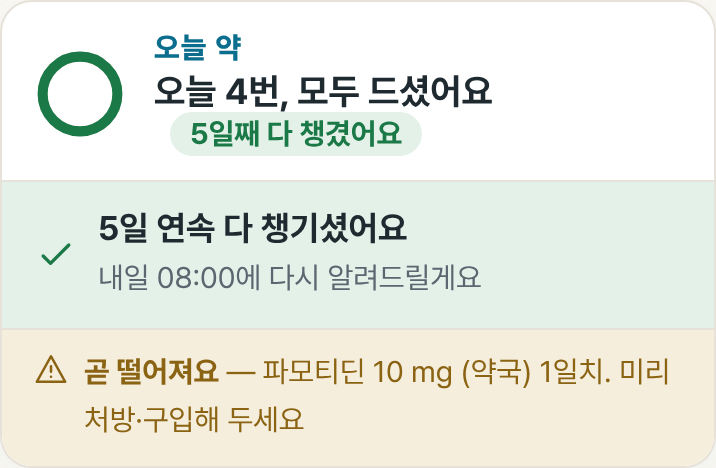
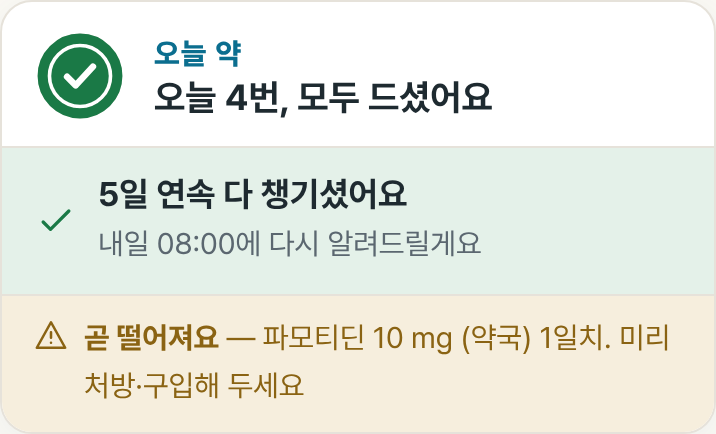
약지도: 연속 기록은 한 곳만(아래 줄), 다 드신 날 고리는 꽉 찬 체크
Claude-Session: https://claude.ai/code/session_01EnA5kC7cG7NGAyuaz7gY2Z

diff --git a/docs/yakjido/index.html b/docs/yakjido/index.html
@@ -290,7 +290,6 @@ p{color:var(--body)}
 .brand .mark img{width:34px;height:34px;display:block;border-radius:9px}
 .brand b{font-size:1.125rem;font-weight:800;letter-spacing:-.02em}
 .brand span{display:block;font-size:.875rem;color:var(--muted);line-height:1.2}
-.dh-stk{display:inline-block;margin-left:8px;padding:2px 10px;border-radius:99px;background:var(--normal-tint);color:var(--normal);font-size:.875rem;font-weight:700}
 .acct-btn{flex:none;display:inline-flex;align-items:center;gap:6px;min-height:44px;padding:0 14px;margin-left:10px;border:1px solid var(--hairline);border-radius:99px;background:var(--card);color:var(--primary-deep);font:700 .9375rem inherit}
 @media (max-width:480px){.top .rs-d{display:none}}@media (max-width:400px){.acct-btn .ab-t{display:none}.acct-btn{width:44px;padding:0;justify-content:center}}.top .brand{min-width:0}
 .acct-btn.on{width:44px;padding:0;justify-content:center;background:var(--primary);color:var(--on-primary)}
@@ -1767,7 +1766,7 @@ background-repeat:no-repeat;background-position:right 9px center;background-size
 <script>
 window.__YAKJIDO_OK__ = true;
 const D = JSON.parse(document.getElementById('data').textContent || '{}');
-const BUILD = '2026-10-30 09:01';
+const BUILD = '2026-10-30 09:16';
 const DATAV = 'b3df5293ae'.indexOf('__') === 0 ? BUILD : 'b3df5293ae';
 const BRANDMARK = (typeof window !== 'undefined' && window.__BRANDMARK__) || 'icon-192.png';
 let CORE = 0, CORE_P = null;
@@ -2007,12 +2006,12 @@ const next = left.find(r => r.min > nowMin + 30);
 const low = lowStock();
 const say = !left.length && done < rows.length ? `오늘 ${rows.length}번 중 ${done}번 드시고 ${rows.length - done}번 건너뛰셨어요` : !done ? `오늘 ${rows.length}번 드실 차례예요` : !left.length ? `오늘 ${rows.length}번, 모두 드셨어요` : `${rows.length}번 중 ${done}번 드셨어요`;
 const stk = streakDays();
-const head = `<div class="dh-h"><span class="eb">오늘 약</span> <b>${say}</b>${stk >= 2 && left.length ? `<span class="dh-stk">${stk}일째 이어지는 중</span>` : ''}</div>`;
+const head = `<div class="dh-h"><span class="eb">오늘 약</span> <b>${say}</b></div>`;
 let body;
 if (!left.length) body = `<div class="dh-b ok">${I.check}<span><b>${stk >= 2 ? `${stk}일 연속 다 챙기셨어요` : '잘 챙기셨어요'}</b><small>내일 ${rows[0].t}에 다시 알려드릴게요</small></span></div>`;
-else if (due) body = `<div class="dh-b due">${pillGlyph(due.d, 26)}<span><b>${esc(due.d.name)}</b><small>${due.t} — ${due.min <= nowMin ? '드실 시간이 지났어요' : '곧 드실 시간이에요'}</small></span>
+else if (due) body = `<div class="dh-b due">${pillGlyph(due.d, 26)}<span><b>${esc(due.d.name)}</b><small>${due.t} — ${due.min <= nowMin ? '드실 시간이 지났어요' : '곧 드실 시간이에요'}${stk >= 2 ? ` · ${stk}일째 이어지는 중` : ''}</small></span>
 <button class="dh-tick" onclick="event.stopPropagation();tick('${due.d.id}','${due.t}')">드셨어요</button></div>`;
-else body = `<div class="dh-b">${pillGlyph(next.d, 26)}<span><b>다음은 ${next.t} · ${esc(next.d.name)}</b><small>오늘 ${left.length}번 남았어요</small></span></div>`;
+else body = `<div class="dh-b">${pillGlyph(next.d, 26)}<span><b>다음은 ${next.t} · ${esc(next.d.name)}</b><small>오늘 ${left.length}번 남았어요${stk >= 2 ? ` · ${stk}일째 이어지는 중` : ''}</small></span></div>`;
 return `<section class="sec" aria-label="오늘 약">
 <div class="dh" role="group">
 <button class="dh-go" onclick="go('/schedule')" aria-label="오늘 약 ${esc(String(say).replace(/<[^>]+>/g, ''))} — 복용 시간 알림 열기">${doseRing(done, rows.length, 46)}${head}</button>
@@ -4678,7 +4677,7 @@ const body = f === 'cap' ? `<rect x="5" y="11" width="22" height="10" rx="5" fil
 : `<circle cx="16" cy="16" r="10" fill="${c}"/><path d="M8.5 16h15" stroke="#fff" stroke-width="1.6" opacity=".6"/>`;
 return `<svg class="pill-g" viewBox="0 0 32 32" width="${size}" height="${size}" aria-hidden="true">${body}</svg>`; }
 function doseRing(done, total, size = 64){ const r = 26, C = 2 * Math.PI * r, f = total ? done / total : 0;
-return `<svg class="ring" viewBox="0 0 64 64" width="${size}" height="${size}" aria-hidden="true"><circle cx="32" cy="32" r="${r}" fill="none" stroke="var(--hairline)" stroke-width="7"/><circle cx="32" cy="32" r="${r}" fill="none" stroke="${f >= 1 ? 'var(--normal)' : 'var(--primary)'}" stroke-width="7" stroke-linecap="round" stroke-dasharray="${(C * f).toFixed(1)} ${C.toFixed(1)}" transform="rotate(-90 32 32)"/></svg>`; }
+return `<svg class="ring" viewBox="0 0 64 64" width="${size}" height="${size}" aria-hidden="true"><circle cx="32" cy="32" r="${r}" fill="none" stroke="var(--hairline)" stroke-width="7"/><circle cx="32" cy="32" r="${r}" fill="none" stroke="${f >= 1 ? 'var(--normal)' : 'var(--primary)'}" stroke-width="7" stroke-linecap="round" stroke-dasharray="${(C * f).toFixed(1)} ${C.toFixed(1)}" transform="rotate(-90 32 32)"/>${f >= 1 ? '<circle cx="32" cy="32" r="20" fill="var(--normal)"/><path d="M23 32.5l6 6 12-13" fill="none" stroke="#fff" stroke-width="4.5" stroke-linecap="round" stroke-linejoin="round"/>' : ''}</svg>`; }
 const DAYPART = [['아침', 0, 660], ['점심', 660, 900], ['저녁', 900, 1200], ['자기 전', 1200, 1440]];
 function daypartGroups(todays){ return DAYPART.map(([n, a, b]) => [n, todays.filter(x => x.min >= a && x.min < b)]).filter(([, l]) => l.length); }
 function todayHero(todays, nowMin, link){ const done = todays.filter(x => x.done).length, all = todays.length, nx = todays.find(x => !x.done && !x.skip && x.min >= nowMin - 60) || todays.find(x => !x.done && !x.skip);

diff --git a/yakjido/app-shell.html b/yakjido/app-shell.html
@@ -323,7 +323,6 @@ p{color:var(--body)}
 .brand .mark img{width:34px;height:34px;display:block;border-radius:9px}
 .brand b{font-size:1.125rem;font-weight:800;letter-spacing:-.02em}
 .brand span{display:block;font-size:.875rem;color:var(--muted);line-height:1.2}
-.dh-stk{display:inline-block;margin-left:8px;padding:2px 10px;border-radius:99px;background:var(--normal-tint);color:var(--normal);font-size:.875rem;font-weight:700}
 .acct-btn{flex:none;display:inline-flex;align-items:center;gap:6px;min-height:44px;padding:0 14px;margin-left:10px;border:1px solid var(--hairline);border-radius:99px;background:var(--card);color:var(--primary-deep);font:700 .9375rem inherit}
 @media (max-width:480px){.top .rs-d{display:none}}@media (max-width:400px){.acct-btn .ab-t{display:none}.acct-btn{width:44px;padding:0;justify-content:center}}.top .brand{min-width:0}
 .acct-btn.on{width:44px;padding:0;justify-content:center;background:var(--primary);color:var(--on-primary)}
@@ -2238,12 +2237,12 @@ function doseHome(){
   const say = !left.length && done < rows.length ? `오늘 ${rows.length}번 중 ${done}번 드시고 ${rows.length - done}번 건너뛰셨어요` : !done ? `오늘 ${rows.length}번 드실 차례예요` : !left.length ? `오늘 ${rows.length}번, 모두 드셨어요` : `${rows.length}번 중 ${done}번 드셨어요`;
   /* 사이 띄어쓰기: 읽어 주는 이름(aria-label)과 보이는 글자를 맞추려고 — 둘 다 블록이라 화면엔 영향 없음 */
   const stk = streakDays();
-  const head = `<div class="dh-h"><span class="eb">오늘 약</span> <b>${say}</b>${stk >= 2 && left.length ? `<span class="dh-stk">${stk}일째 이어지는 중</span>` : ''}</div>`;
+  const head = `<div class="dh-h"><span class="eb">오늘 약</span> <b>${say}</b></div>`;
   let body;
   if (!left.length) body = `<div class="dh-b ok">${I.check}<span><b>${stk >= 2 ? `${stk}일 연속 다 챙기셨어요` : '잘 챙기셨어요'}</b><small>내일 ${rows[0].t}에 다시 알려드릴게요</small></span></div>`;
-  else if (due) body = `<div class="dh-b due">${pillGlyph(due.d, 26)}<span><b>${esc(due.d.name)}</b><small>${due.t} — ${due.min <= nowMin ? '드실 시간이 지났어요' : '곧 드실 시간이에요'}</small></span>
+  else if (due) body = `<div class="dh-b due">${pillGlyph(due.d, 26)}<span><b>${esc(due.d.name)}</b><small>${due.t} — ${due.min <= nowMin ? '드실 시간이 지났어요' : '곧 드실 시간이에요'}${stk >= 2 ? ` · ${stk}일째 이어지는 중` : ''}</small></span>
     <button class="dh-tick" onclick="event.stopPropagation();tick('${due.d.id}','${due.t}')">드셨어요</button></div>`;
-  else body = `<div class="dh-b">${pillGlyph(next.d, 26)}<span><b>다음은 ${next.t} · ${esc(next.d.name)}</b><small>오늘 ${left.length}번 남았어요</small></span></div>`;
+  else body = `<div class="dh-b">${pillGlyph(next.d, 26)}<span><b>다음은 ${next.t} · ${esc(next.d.name)}</b><small>오늘 ${left.length}번 남았어요${stk >= 2 ? ` · ${stk}일째 이어지는 중` : ''}</small></span></div>`;
   return `<section class="sec" aria-label="오늘 약">
     <div class="dh" role="group">
       <button class="dh-go" onclick="go('/schedule')" aria-label="오늘 약 ${esc(String(say).replace(/<[^>]+>/g, ''))} — 복용 시간 알림 열기">${doseRing(done, rows.length, 46)}${head}</button>
@@ -5618,7 +5617,7 @@ function pillGlyph(d, size = 30){ let h = 0; const k = String((d && d.id) || '')
     : `<circle cx="16" cy="16" r="10" fill="${c}"/><path d="M8.5 16h15" stroke="#fff" stroke-width="1.6" opacity=".6"/>`;
   return `<svg class="pill-g" viewBox="0 0 32 32" width="${size}" height="${size}" aria-hidden="true">${body}</svg>`; }
 function doseRing(done, total, size = 64){ const r = 26, C = 2 * Math.PI * r, f = total ? done / total : 0;
-  return `<svg class="ring" viewBox="0 0 64 64" width="${size}" height="${size}" aria-hidden="true"><circle cx="32" cy="32" r="${r}" fill="none" stroke="var(--hairline)" stroke-width="7"/><circle cx="32" cy="32" r="${r}" fill="none" stroke="${f >= 1 ? 'var(--normal)' : 'var(--primary)'}" stroke-width="7" stroke-linecap="round" stroke-dasharray="${(C * f).toFixed(1)} ${C.toFixed(1)}" transform="rotate(-90 32 32)"/></svg>`; }
+  return `<svg class="ring" viewBox="0 0 64 64" width="${size}" height="${size}" aria-hidden="true"><circle cx="32" cy="32" r="${r}" fill="none" stroke="var(--hairline)" stroke-width="7"/><circle cx="32" cy="32" r="${r}" fill="none" stroke="${f >= 1 ? 'var(--normal)' : 'var(--primary)'}" stroke-width="7" stroke-linecap="round" stroke-dasharray="${(C * f).toFixed(1)} ${C.toFixed(1)}" transform="rotate(-90 32 32)"/>${f >= 1 ? '<circle cx="32" cy="32" r="20" fill="var(--normal)"/><path d="M23 32.5l6 6 12-13" fill="none" stroke="#fff" stroke-width="4.5" stroke-linecap="round" stroke-linejoin="round"/>' : ''}</svg>`; }
 const DAYPART = [['아침', 0, 660], ['점심', 660, 900], ['저녁', 900, 1200], ['자기 전', 1200, 1440]];
 function daypartGroups(todays){ return DAYPART.map(([n, a, b]) => [n, todays.filter(x => x.min >= a && x.min < b)]).filter(([, l]) => l.length); }
 function todayHero(todays, nowMin, link){ const done = todays.filter(x => x.done).length, all = todays.length, nx = todays.find(x => !x.done && !x.skip && x.min >= nowMin - 60) || todays.find(x => !x.done && !x.skip);

diff --git a/docs/yakjido/sw.js b/docs/yakjido/sw.js
@@ -9,7 +9,7 @@
                        판이 같으면 캐시 그대로, 판이 바뀌면 새로 받아 넣고 옛 판은 지운다(prune).
    판 없는 옛 주소는 «캐시 먼저» — 한 번 받은 것은 즉시 열리고, 뒤에서 조용히 새로 받아 둔다.
    인터넷이 안 되면 어느 캐시에든 있는 사본을 준다(5-01 — 첫 방문 뒤 비행기 모드에서 본문이 안 뜨던 것). */
-const CACHE = 'yakjido-2026-10-30T09:01-3bc65e15';
+const CACHE = 'yakjido-2026-10-30T09:16-13c39a42';
 const DATA = 'yakjido-data-v1';
 /* 기내 모드·바깥 파일 0(10-27) — 글꼴(fonts/)·로그인 프로그램(vendor/)은 배포 묶음 안. 판이 박힌 꾸러미라 내용이 안 바뀌니 «캐시 먼저», 앱 판이 바뀌어도 지우지 않는다(EXT).
    바깥 주소는 하나도 담지 않는다 — 서버 응답(supabase REST)·날씨는 그대로 지나간다(09-22 원칙) */
